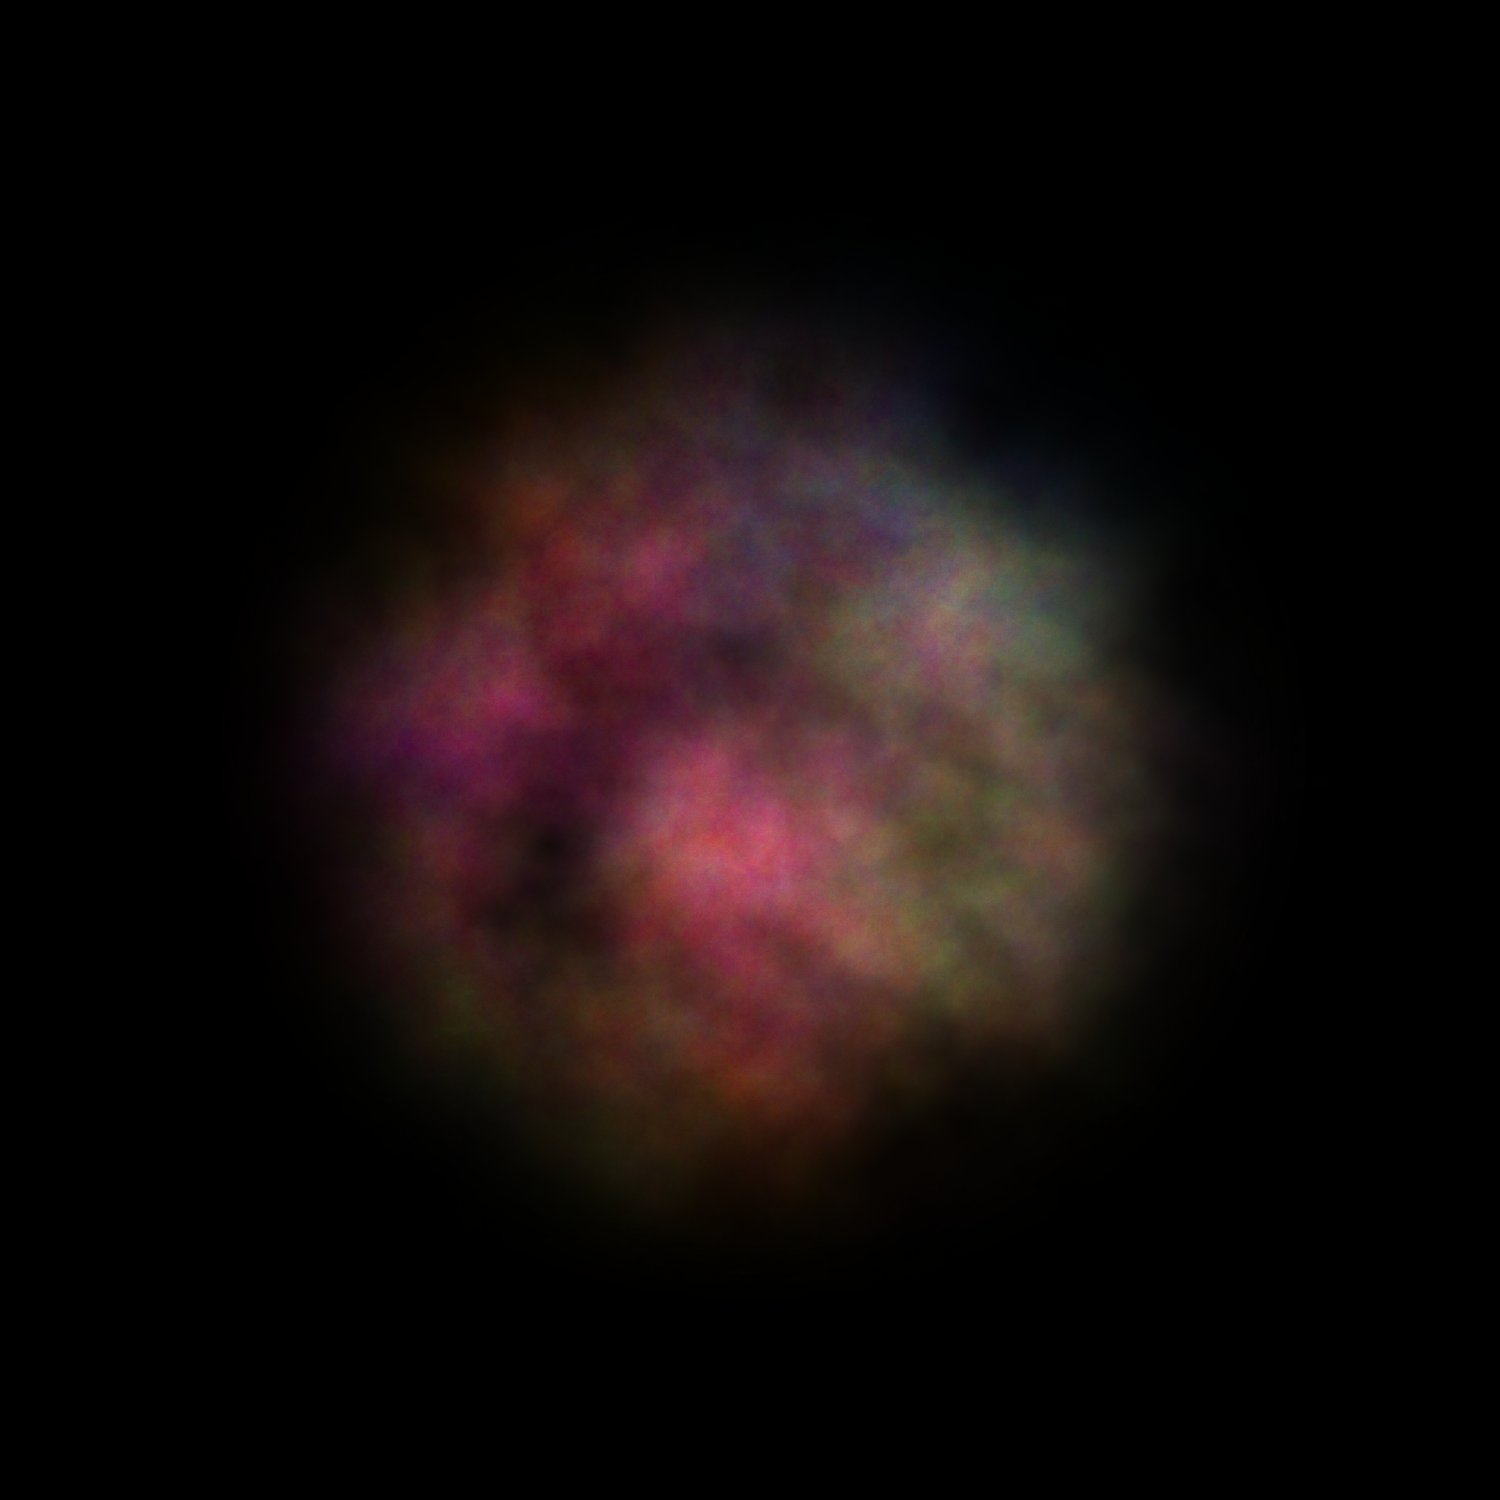
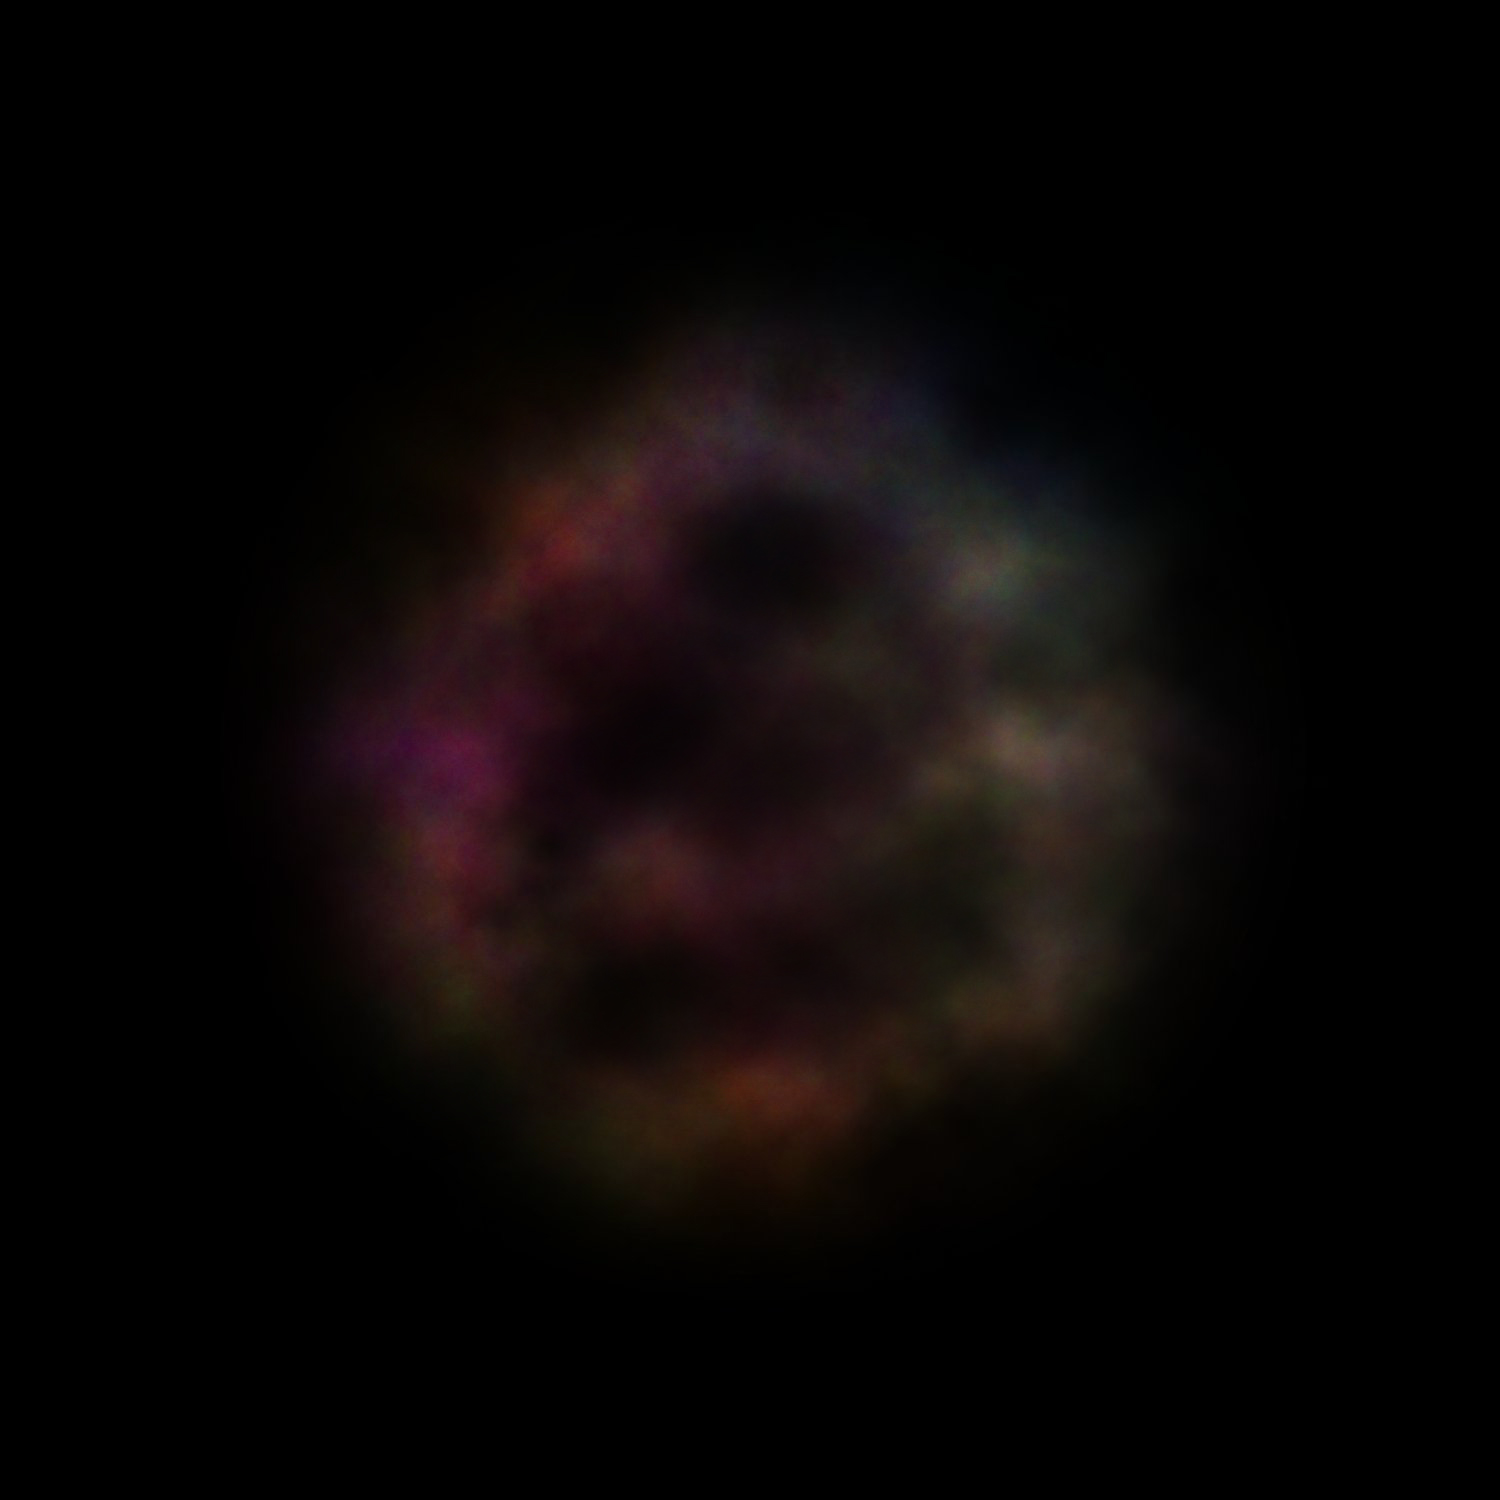
updates

Changed region(s): [[0.2453, 0.3067, 0.736, 0.736]]

diff --git a/public/js/app.js b/public/js/app.js
@@ -112,7 +112,7 @@
 
 	module.exports = {
 	  debug: false,
-	  fog: true
+	  fog: false
 	};
 
 
@@ -359,6 +359,10 @@
 
 	controls.dynamicDampingFactor = 0.5;
 
+	controls.maxDistance = 300;
+
+	controls.minDistance = 100;
+
 	module.exports = controls;
 
 
@@ -372,7 +376,7 @@
 
 	camera = new THREE.PerspectiveCamera(65, win.width / win.height, 0.1, 10000);
 
-	camera.position.set(150, 45, 150);
+	camera.position.set(180, 30, 180);
 
 	camera.lookAt(new THREE.Vector3);
 
@@ -410,7 +414,9 @@
 	Camera = __webpack_require__(7);
 
 	module.exports = Index = (function() {
-	  Index.prototype.particleCount = 3000;
+	  Index.prototype.particleCount = 5000;
+
+	  Index.prototype.planeCount = 15;
 
 	  function Index() {
 	    this.update = __bind(this.update, this);
@@ -425,17 +431,18 @@
 	    Scene.add(this.starfield);
 	    geometry = new THREE.Geometry;
 	    options = {
-	      color: 0xFFFFFF,
-	      size: 2,
 	      map: THREE.ImageUtils.loadTexture('images/particle.png'),
 	      blending: THREE.AdditiveBlending,
-	      transparent: true
+	      size: 1,
+	      transparent: true,
+	      depthWrite: false,
+	      depthTest: false
 	    };
 	    material = new THREE.PointCloudMaterial(options);
 	    for (i = _i = 0, _ref = this.particleCount; 0 <= _ref ? _i < _ref : _i > _ref; i = 0 <= _ref ? ++_i : --_i) {
-	      x = Math.random() * 500 - 250;
-	      y = Math.random() * 500 - 250;
-	      z = Math.random() * 500 - 250;
+	      x = (Math.random() * 500) - 250;
+	      y = (Math.random() * 500) - 250;
+	      z = (Math.random() * 500) - 250;
 	      particle = new THREE.Vector3(x, y, z);
 	      geometry.vertices.push(particle);
 	    }
@@ -445,28 +452,27 @@
 	  };
 
 	  Index.prototype.createNebula = function() {
-	    var count, geometry, i, images, material, mesh, options, texture, _i;
-	    images = ['images/plasma.jpg', 'images/plasma2.jpg', 'images/plasma3.jpg'];
+	    var geometry, i, images, material, mesh, options, texture, _i, _ref;
 	    this.nebula = new THREE.Object3D;
-	    count = 15;
-	    for (i = _i = 0; 0 <= count ? _i < count : _i > count; i = 0 <= count ? ++_i : --_i) {
-	      geometry = new THREE.PlaneGeometry(100, 100, 1, 1);
+	    images = ['images/plasma.jpg', 'images/plasma2.jpg', 'images/plasma3.jpg'];
+	    for (i = _i = 0, _ref = this.planeCount; 0 <= _ref ? _i < _ref : _i > _ref; i = 0 <= _ref ? ++_i : --_i) {
+	      geometry = new THREE.PlaneGeometry(150, 150, 1, 1);
 	      texture = THREE.ImageUtils.loadTexture(images[Math.floor(Math.random() * 3)]);
 	      texture.minFilter = THREE.LinearFilter;
 	      options = {
 	        map: texture,
 	        blending: THREE.AdditiveBlending,
-	        transparent: true,
 	        side: THREE.DoubleSide,
+	        transparent: true,
 	        wireframe: false,
 	        depthWrite: false,
 	        depthTest: false
 	      };
 	      material = new THREE.MeshBasicMaterial(options);
 	      mesh = new THREE.Mesh(geometry, material);
-	      mesh.rotation.x = i * (Math.PI * 2) / count;
-	      mesh.rotation.y = i * (Math.PI * 2) / count;
-	      mesh.rotation.z = i * (Math.PI * 2) / count;
+	      mesh.rotation.x = i * (Math.PI * 2) / this.planeCount;
+	      mesh.rotation.y = i * (Math.PI * 2) / this.planeCount;
+	      mesh.rotation.z = i * (Math.PI * 2) / this.planeCount;
 	      this.nebula.add(mesh);
 	    }
 	    return Scene.add(this.nebula);
@@ -474,6 +480,7 @@
 
 	  Index.prototype.update = function(time) {
 	    var a, plane, v1, v2, _i, _len, _ref, _results;
+	    this.starfield.rotation.y += 0.000025;
 	    this.nebula.position.y = Math.sin(time / 500);
 	    _ref = this.nebula.children;
 	    _results = [];
